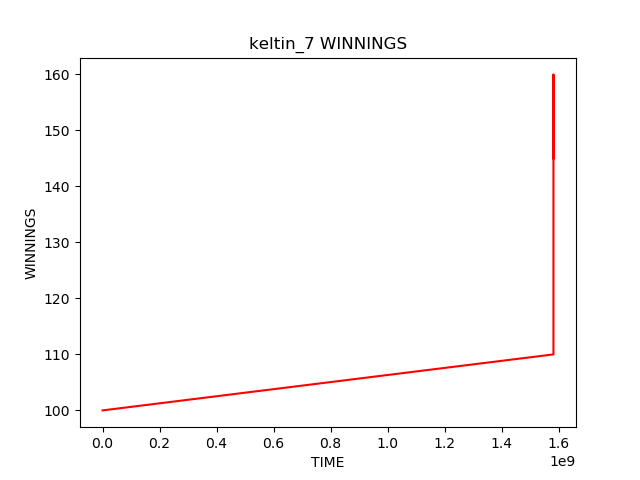
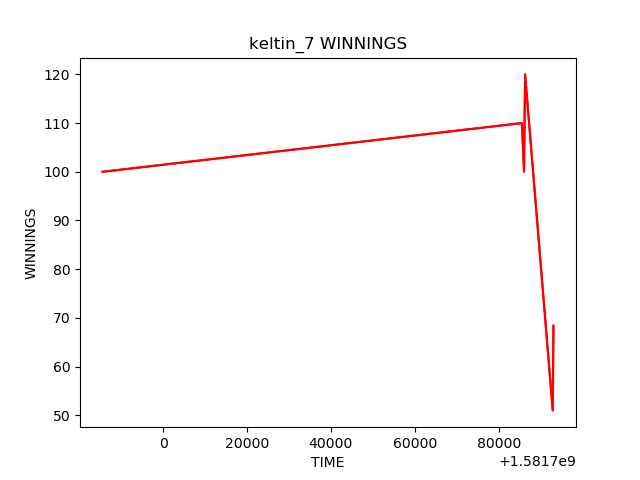
Website stuff

diff --git a/Website/app/templates/user.html b/Website/app/templates/user.html
@@ -14,5 +14,20 @@
     </p>
     {% endfor %}
     <br>
-    <img src={{ url_for('static',filename=plot_url) }} width='500'>
+    {% if plot_url != None %}
+        <img src={{ url_for('static',filename=plot_url) }} width='500'>
+    {% endif %}
+    <br>
+    <h1>Conclude a bet for testing purposes:</h1>
+    <form action="" method="post">
+        {{ form.hidden_tag() }}
+        <p>
+            {{ form.bet_id.label }}<br>
+            {{ form.bet_id(size=32) }}<br>
+            {% for error in form.bet_id.errors %}
+            <span style="color: red;">[{{ error }}]</span>
+            {% endfor %}
+        </p>
+        <p>{{ form.submit() }}</p>
+    </form>
 {% endblock %}

diff --git a/Website/app/routes.py b/Website/app/routes.py
@@ -4,7 +4,7 @@ from app import app
 from app.forms import *
 from app.models import User
 from random import randint
-import sys, io
+import sys, io, os
 from matplotlib.backends.backend_agg import FigureCanvasAgg as FigureCanvas
 from matplotlib.figure import Figure
 from flask import Response
@@ -50,13 +50,13 @@ def register():
         id = randint(0,999999)
         user = User(id, form.username.data, form.password.data)
         #user.set_password(form.password.data)
-        update_users({'user_id':id, 'username':form.username.data, 'total':10, 'password_hash':form.password.data},
+        update_users({'user_id':id, 'username':form.username.data, 'total':100, 'password_hash':form.password.data},
                         'C://Users/kelti/Documents/GitHub/TartanHacks2020/website/app/database/data.json')
         login_user(user)
         return redirect(url_for('index'))
     return render_template('register.html', title='Register', form=form)
 
-@app.route('/user/<username>')
+@app.route('/user/<username>', methods=['GET', 'POST'])
 @login_required
 def user(username):
     # Get the user from the database
@@ -64,9 +64,20 @@ def user(username):
     print(user.id)
     bets = User.query_user_bets(user.id)
     plot = visualize(running_total(user.id), user.id)
-    plot_url = f'C://Users/kelti/Documents/GitHub/TartanHacks2020/website/app/static/{user.id}.png'
-    plot.savefig(plot_url)
-    return render_template('user.html', user=user, bets=bets, plot_url=f'{user.id}.png')
+    plot_url = None
+    if plot != None:
+        plot_url = f'C://Users/kelti/Documents/GitHub/TartanHacks2020/website/app/static/{user.id}.png'
+        if os.path.isfile(plot_url):
+            os.remove(plot_url)   # Opt.: os.system("rm "+strFile)
+        plot.savefig(plot_url)
+    form = ConcludeBet()
+    if form.validate_on_submit():
+        conclude_bet(form.bet_id.data,
+            'C://Users/kelti/Documents/GitHub/TartanHacks2020/website/app/database/data.json')
+        return redirect(url_for('user', username=current_user.username))
+    if plot_url != None:
+        plot_url = f'{user.id}.png'
+    return render_template('user.html', user=user, bets=bets, plot_url=plot_url, form=form)
 
 # Betting Divisions
 @app.route('/ncaab', methods=['GET', 'POST'])

diff --git a/Website/app/database/running_total.py b/Website/app/database/running_total.py
@@ -6,9 +6,11 @@ from app.database.main import *
 import matplotlib.pyplot as plt
 
 def running_total(user_id):
-    bet_history = [(0,100, -1)]
+    bet_history = [(1581685537.545163,100, -1)]
     bankroll = 100
     bets = get_user_bets(user_id, 'C://Users/kelti/Documents/GitHub/TartanHacks2020/website/app/database/data.json')
+    if bets == None:
+        return None
     for i in range(len(bets)):
         winnings = bets[i]["net"]
         curr_id = bets[i]["bet_id"]
@@ -59,6 +61,8 @@ def mergeSort(a, b):
         step *= 2
 
 def visualize(bet_history, user_id):
+    if bet_history == None:
+        return None
     username = get_user_by_id(user_id, 'C://Users/kelti/Documents/GitHub/TartanHacks2020/website/app/database/data.json')["username"]
     time = []
     money = []
@@ -67,16 +71,15 @@ def visualize(bet_history, user_id):
         time.append(bet_history[i][0])
         money.append(bet_history[i][1])
         tracker.append(bet_history[i][2])
-        #print(time)
+        print(time)
         #print(money)
     plt.plot(time, money, color = 'r')
     plt.xlabel("TIME")
     plt.ylabel("WINNINGS")
     plt.title(f"{username} WINNINGS")
-    maxTime = time[len(time) - 1] * 1.1
+    maxTime = time[len(time) - 1]
     maxMoney = max(money) * 1.1
-    plt.axis([0, maxTime, 0, maxMoney])
-    plt.show()
+    #plt.axis([1581585537.545163, maxTime, 0, maxMoney])
     return plt
 
 '''

diff --git a/Website/app/forms.py b/Website/app/forms.py
@@ -34,3 +34,7 @@ class RegistrationForm(FlaskForm):
         user = User.query_username(username.data)
         if user is not None:
             raise ValidationError('Please use a different username.')
+
+class ConcludeBet(FlaskForm):
+    bet_id = StringField('Bet ID:', validators=[DataRequired()])
+    submit = SubmitField('Conclude')

diff --git a/Website/app/database/main.py b/Website/app/database/main.py
@@ -54,7 +54,7 @@ database (dict)
 
 import json, time, copy
 import random
-from scrape import *
+#from scrape import *
 
 
 def intify(text):
